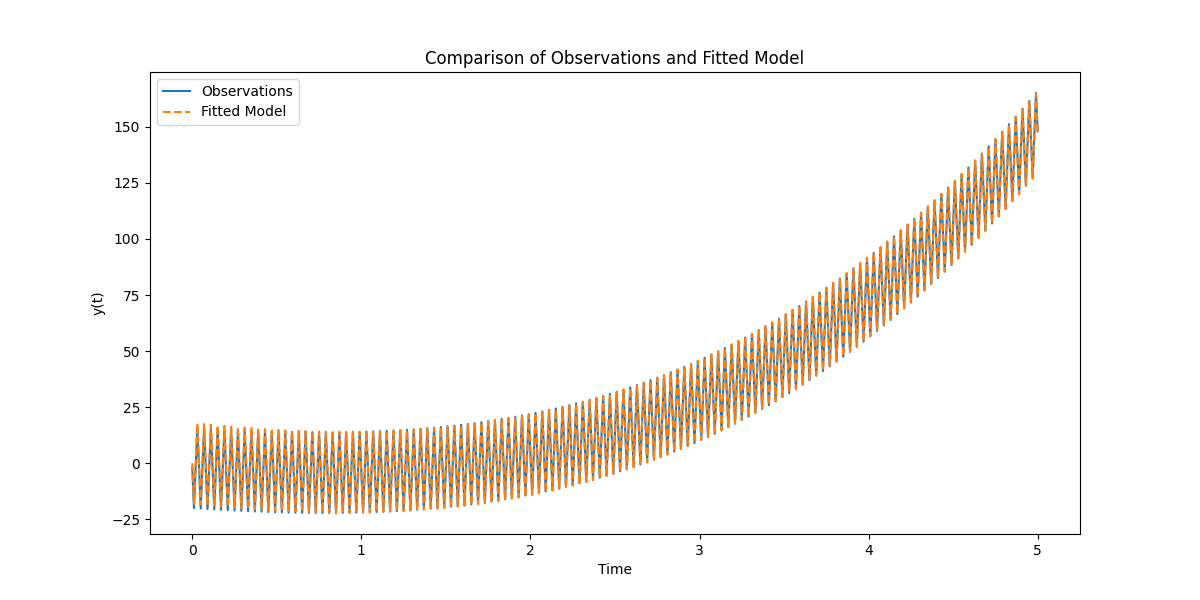
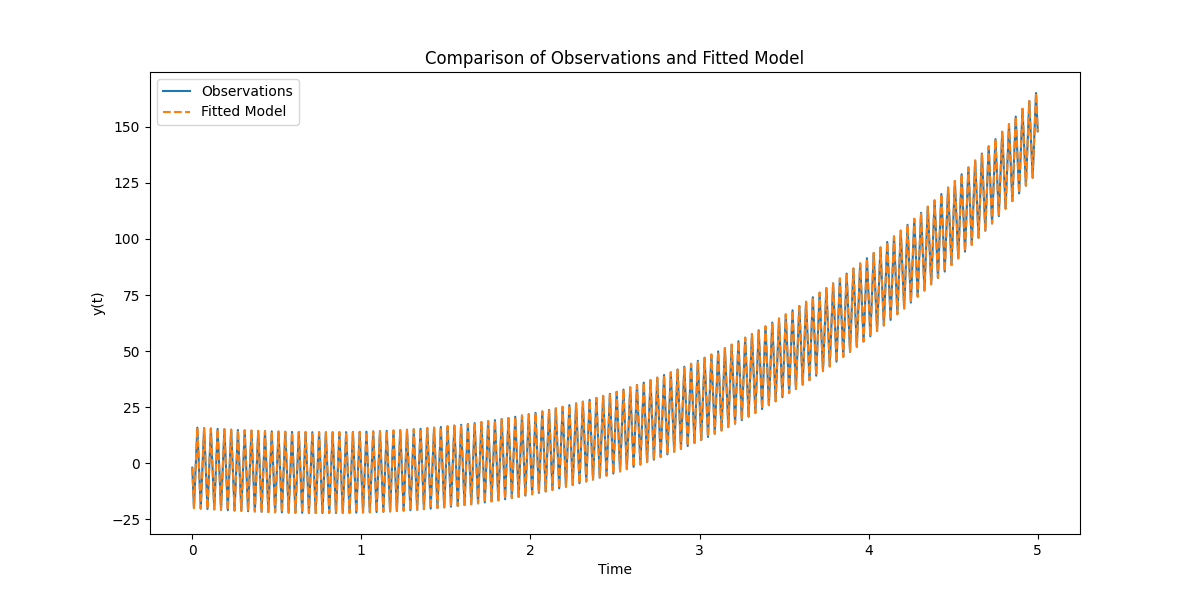
csm lab1 small fixes

Changed region(s): [[0.1542, 0.18, 0.8633, 0.87]]

diff --git a/sem5/CSM/lab1/main.py b/sem5/CSM/lab1/main.py
@@ -78,9 +78,9 @@ def plotDFTModules(
     plt.show()
 
 def fit_model(t, observations, peak_frequencies):
-    def model(t, a1, a2, a3, *params):
+    def model(t, a1, a2, a3, a_const, *params):
         k = len(params) // 2
-        y = a1 * t**3 + a2 * t**2 + a3 * t
+        y = a1 * t**3 + a2 * t**2 + a3 * t + a_const
         for i in range(k):
             fi = params[i]
             ai = params[k + i]
@@ -88,7 +88,7 @@ def fit_model(t, observations, peak_frequencies):
         return y
 
     # starting guess for parameters
-    initial_guess = [0, 0, 0] + peak_frequencies + [1]*len(peak_frequencies)
+    initial_guess = [0, 0, 0, 0] + peak_frequencies + [1]*len(peak_frequencies)
 
     params, covariance = curve_fit(model, t, observations, p0=initial_guess)
     fitted_values = model(t, *params)
